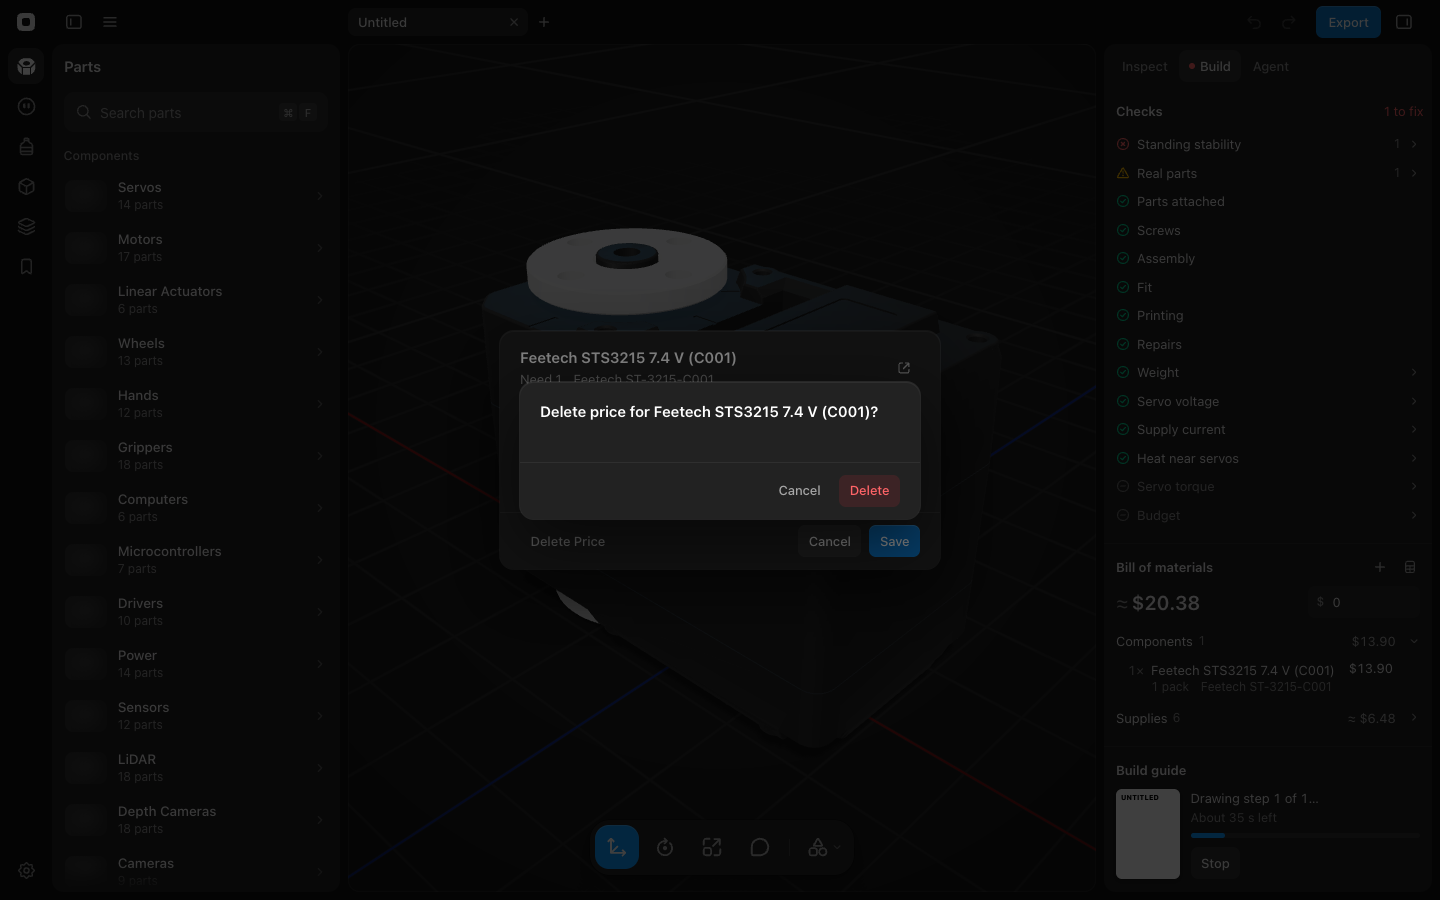
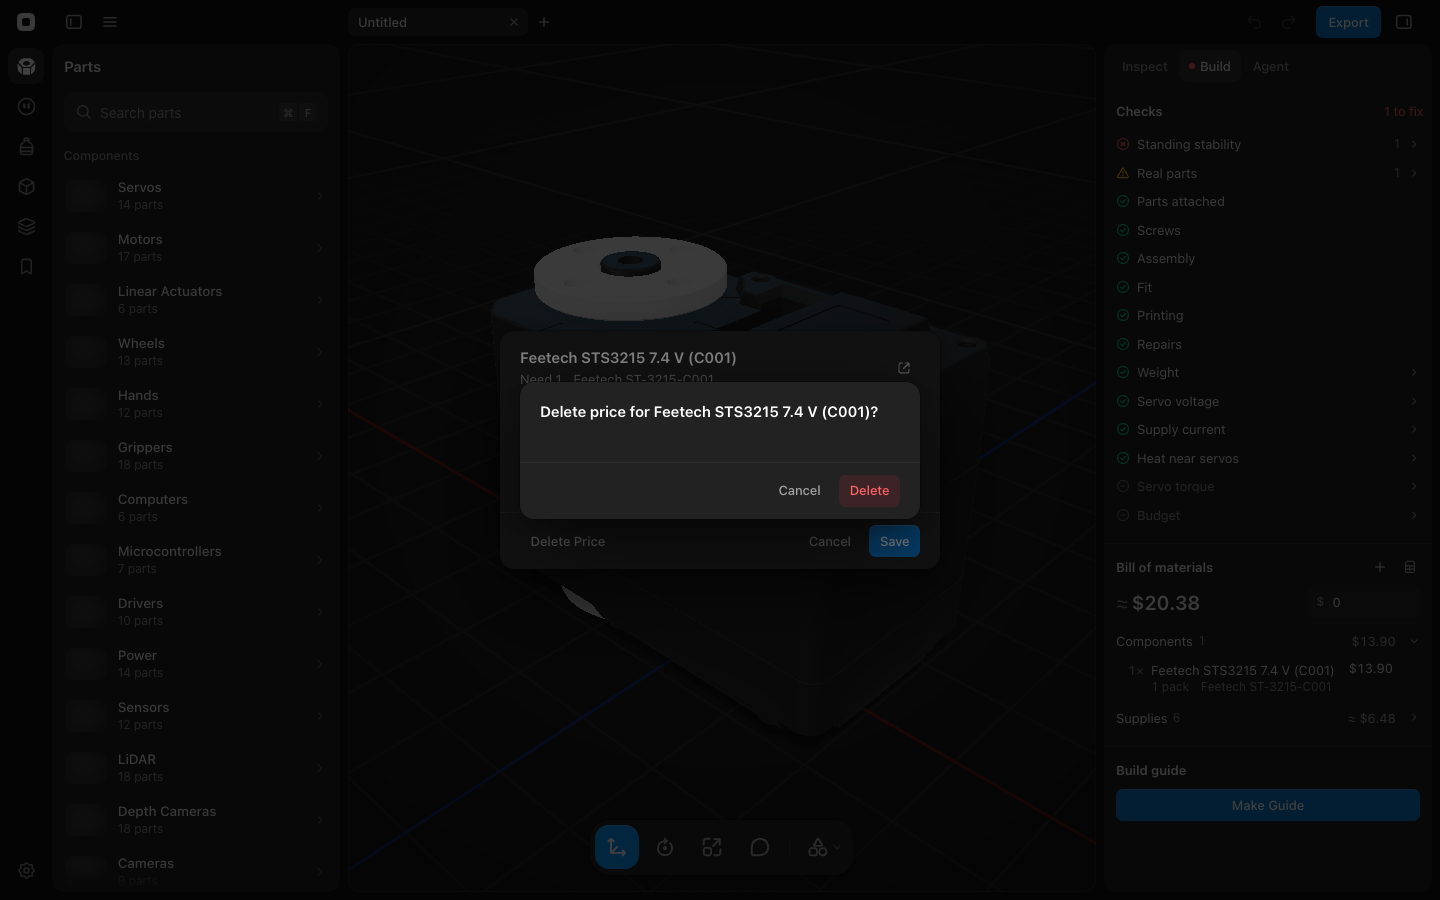
Give every sheet one footer, drawn by Modal: a ghost Cancel then its action
Sheets passed hand-built footers to Modal, and Cancel drifted: a filled
secondary button in the price sheet and Start Print, a ghost one in the
Import Robot, motion import and confirmation sheets. Modal now takes an
`action` (label, onClick, disabled, tone, autoFocus, form) and an
optional `footerStart`, and draws the footer itself: a ghost Cancel
with its Esc tooltip, then the action. ConfirmDialog, ImportRobotSheet,
RetargetSheet, CheckSheet and StartPrintSheet use it, the design-system
guide describes the new props, and the price help article's Delete
price screenshot is recaptured with the ghost Cancel.

diff --git a/src/design-system/Modal.tsx b/src/design-system/Modal.tsx
@@ -1,7 +1,17 @@
 import React, { useEffect } from 'react';
 import { CloseIcon } from './glyphs';
 import { createPortal } from 'react-dom';
+import { Button } from './Button';
 import { IconButton } from './IconButton';
+
+export interface ModalAction {
+  label: string;
+  onClick?: () => void;
+  disabled?: boolean;
+  tone?: 'primary' | 'danger';
+  autoFocus?: boolean;
+  form?: string;
+}
 
 export interface ModalProps {
   isOpen: boolean;
@@ -10,7 +20,8 @@ export interface ModalProps {
   subtitle?: React.ReactNode;
   icon?: React.ReactNode;
   children: React.ReactNode;
-  footer?: React.ReactNode;
+  action?: ModalAction;
+  footerStart?: React.ReactNode;
   headerActions?: React.ReactNode;
   maxWidth?: string;
 }
@@ -22,7 +33,8 @@ export const Modal: React.FC<ModalProps> = ({
   subtitle,
   icon,
   children,
-  footer,
+  action,
+  footerStart,
   headerActions,
   maxWidth = 'max-w-2xl',
 }) => {
@@ -68,7 +80,7 @@ export const Modal: React.FC<ModalProps> = ({
           </div>
           <div className="flex items-center gap-[4px] shrink-0">
             {headerActions}
-            {!footer && (
+            {!action && (
               <IconButton
                 icon={<CloseIcon className="w-4 h-4" />}
                 title="Close"
@@ -82,9 +94,22 @@ export const Modal: React.FC<ModalProps> = ({
 
         <div className="px-[20px] pb-[20px] overflow-y-auto flex-1">{children}</div>
 
-        {footer && (
-          <div className="px-[20px] py-[12px] border-t border-white/[0.06] flex items-center justify-end gap-[8px] shrink-0">
-            {footer}
+        {action && (
+          <div className="px-[20px] py-[12px] border-t border-white/[0.06] flex items-center gap-[8px] shrink-0">
+            <div className="flex-1 min-w-0 flex items-center gap-[8px]">{footerStart}</div>
+            <Button variant="ghost" title="Cancel" shortcut="Esc" onClick={onClose}>
+              Cancel
+            </Button>
+            <Button
+              variant={action.tone ?? 'primary'}
+              type={action.form ? 'submit' : 'button'}
+              form={action.form}
+              disabled={action.disabled}
+              autoFocus={action.autoFocus}
+              onClick={action.onClick}
+            >
+              {action.label}
+            </Button>
           </div>
         )}
       </div>

diff --git a/src/components/build/CheckSheet.tsx b/src/components/build/CheckSheet.tsx
@@ -154,24 +154,18 @@ export const CheckSheet: React.FC<CheckSheetProps> = ({ line, onClose, onSave })
       subtitle={<MetaLine items={[`Need ${needed(line)}`, line.detail]} />}
       headerActions={<ListingLink line={line} />}
       maxWidth="max-w-[440px]"
-      footer={
+      action={{ label: 'Save', form: formId, disabled: !valid }}
+      footerStart={
         <>
           {line.record && (
             <Button
               variant="ghost"
-              size="sm"
               onClick={() => confirmAction({ title: `Delete price for ${line.name}?`, onConfirm: () => onSave(null) })}
             >
               Delete Price
             </Button>
           )}
-          <div className="flex-1 text-[12.5px] text-white/50 truncate">{linkError(form.url)}</div>
-          <Button variant="secondary" size="sm" onClick={onClose}>
-            Cancel
-          </Button>
-          <Button type="submit" form={formId} variant="primary" size="sm" disabled={!valid}>
-            Save
-          </Button>
+          <div className="flex-1 min-w-0 text-[12.5px] text-white/50 truncate">{linkError(form.url)}</div>
         </>
       }
     >

diff --git a/src/components/ImportRobotSheet.tsx b/src/components/ImportRobotSheet.tsx
@@ -62,24 +62,13 @@ export const ImportRobotSheet: React.FC<{
       title="Import Robot"
       icon={<FolderImportIcon className="w-4 h-4" />}
       maxWidth="max-w-[520px]"
-      footer={
-        <div className="flex items-center justify-between w-full">
-          {choice ? (
-            <span />
-          ) : (
-            <Button variant="secondary" size="sm" onClick={() => folderRef.current?.click()}>
-              Choose Folder
-            </Button>
-          )}
-          <div className="flex gap-[8px]">
-            <Button variant="ghost" size="sm" onClick={onClose}>
-              Cancel
-            </Button>
-            <Button variant="primary" size="sm" disabled={!ready} autoFocus={!!loaded} onClick={submit}>
-              Import
-            </Button>
-          </div>
-        </div>
+      action={{ label: 'Import', disabled: !ready, autoFocus: !!loaded, onClick: submit }}
+      footerStart={
+        !choice && (
+          <Button variant="secondary" onClick={() => folderRef.current?.click()}>
+            Choose Folder
+          </Button>
+        )
       }
     >
       {choice && (

diff --git a/src/components/print/StartPrintSheet.tsx b/src/components/print/StartPrintSheet.tsx
@@ -1,5 +1,5 @@
 import React from 'react';
-import { Button, MetaLine, Modal } from '../../design-system';
+import { MetaLine, Modal } from '../../design-system';
 import type { PrinterSetup } from '../../data/printers';
 import type { Plate } from '../../print/plan';
 import type { PrinterStatus, SlicedPlate } from '../../print/printBridge';
@@ -39,16 +39,7 @@ export const StartPrintSheet: React.FC<StartPrintSheetProps> = ({ plate, sliced,
       onClose={onClose}
       title={`Print plate ${plate.number} on ${printer.label}?`}
       maxWidth="max-w-[420px]"
-      footer={
-        <div className="flex justify-end gap-2">
-          <Button variant="secondary" onClick={onClose}>
-            Cancel
-          </Button>
-          <Button variant="primary" onClick={onStart} disabled={!!busy} autoFocus>
-            Start Print
-          </Button>
-        </div>
-      }
+      action={{ label: 'Start Print', disabled: !!busy, autoFocus: true, onClick: onStart }}
     >
       <div className="flex gap-4">
         {sliced?.thumbnail && (

diff --git a/src/components/RetargetSheet.tsx b/src/components/RetargetSheet.tsx
@@ -1,5 +1,5 @@
 import React, { useMemo, useState } from 'react';
-import { Button, FileImportIcon, Modal, Select, Switch } from '../design-system';
+import { FileImportIcon, Modal, Select, Switch } from '../design-system';
 import type { RobotAnimation } from '../types/robotics';
 import { isMovable, prettyJointName, type Rig } from '../utils/kinematics';
 import type { PointOf } from '../utils/animation';
@@ -113,16 +113,7 @@ export const RetargetSheet: React.FC<{
       subtitle={`${motion.duration.toFixed(1)} s`}
       icon={<FileImportIcon className="w-4 h-4" />}
       maxWidth="max-w-[560px]"
-      footer={
-        <div className="flex items-center justify-end gap-2 w-full">
-          <Button variant="ghost" size="sm" onClick={onClose}>
-            Cancel
-          </Button>
-          <Button variant="primary" size="sm" onClick={create}>
-            Import
-          </Button>
-        </div>
-      }
+      action={{ label: 'Import', onClick: create }}
     >
       <div className="space-y-4">
         <MappingGrid

diff --git a/src/design-system/ConfirmDialog.tsx b/src/design-system/ConfirmDialog.tsx
@@ -1,5 +1,4 @@
 import React from 'react';
-import { Button } from './Button';
 import { Modal } from './Modal';
 
 export interface ConfirmDialogProps {
@@ -24,16 +23,7 @@ export const ConfirmDialog: React.FC<ConfirmDialogProps> = ({
     onClose={onCancel}
     title={title}
     maxWidth="max-w-[400px]"
-    footer={
-      <>
-        <Button variant="ghost" size="sm" onClick={onCancel}>
-          Cancel
-        </Button>
-        <Button variant="danger" size="sm" autoFocus onClick={onConfirm}>
-          {confirmLabel}
-        </Button>
-      </>
-    }
+    action={{ label: confirmLabel, tone: 'danger', autoFocus: true, onClick: onConfirm }}
   >
     {children && <div className="text-[13px] leading-[19px] text-white/60">{children}</div>}
   </Modal>

diff --git a/docs/guide/design-system.md b/docs/guide/design-system.md
@@ -33,7 +33,7 @@ Use these primitives. Never hand-roll a styled `<button>` or input when one fits
 - `SceneTabs` (`src/components`): the scene tab strip (§5a)
 - `ExportMenu` (`src/components`): the title bar's Export button and its format menu.
   - `PopoverMenu` anchors to its parent (the trigger's `relative` wrapper) but renders in a portal with fixed positioning, so docked panels with `overflow-hidden` never clip it. It flips to the other side when its preferred side has no room, stays 8px inside the window, and follows the trigger on resize and scroll. While any open dialog doesn't hold its trigger (`behindModal`, shared with `Tooltip`; a confirm stacked over a `Modal` covers that Modal's controls too), clicks and Esc go to the dialog and the popover stays open, so a menu row can ask with `confirmAction` (as the Scenes menu's Delete does) and the list is still there after. That holds for any open popover, not only one whose row opened the dialog.
-- `Modal` (portal sheet; `headerActions` sit at the header's right). A sheet with a `footer` closes with the footer's Cancel, Esc or a backdrop click, and has no Close in its header: two controls for one job. Only a sheet without a footer (`CodeBlock`'s Expand) shows Close. `ConfirmDialog` (a small `Modal` with Cancel and a danger action, focused so Enter confirms), `Toast` (with action), `EmptyState`, `NoMatches` (the `EmptyState` every search shows when nothing matches, with an optional action such as Parts' Search All Parts), `Badge` (12px text on an 18px pill)
+- `Modal` (portal sheet; `headerActions` sit at the header's right). A sheet that does something takes an `action` (`label`, `onClick`, `disabled`, `tone: 'danger'`, `autoFocus` so Enter runs it, `form` to submit a form), and `Modal` draws its footer: a ghost Cancel (Esc) then the action, the same in every sheet. `footerStart` holds anything else at the footer's left (Import Robot's Choose Folder, a price's Delete Price). That sheet closes with Cancel, Esc or a backdrop click, and has no Close in its header: two controls for one job. Only a sheet without an action (`CodeBlock`'s Expand, Pair Phone) shows Close. `ConfirmDialog` (a small `Modal` with Cancel and a danger action, focused so Enter confirms), `Toast` (with action), `EmptyState`, `NoMatches` (the `EmptyState` every search shows when nothing matches, with an optional action such as Parts' Search All Parts), `Badge` (12px text on an 18px pill)
   - While any modal is open (`isModalOpen()`: an `aria-modal` element in the page), canvas shortcuts don't run and clicks don't dismiss what's under it (the comment card).
 - `CodeBlock`: code with syntax colours (`utils/highlight.ts`: OpenSCAD, JavaScript/replicad, Python, shell; Xcode dark palette), Copy and Expand on hover; Expand opens the code in a wide `Modal` with line numbers and Copy. `Markdown` renders fenced code with it.
 - `PreviewImage`: the thumbnail inside every `.preview` frame in the app's panels (Parts, Library, hardware types, Scenes, Robots, Objects, the part and model heroes). `src` undefined shimmers, `''` stays empty, a URL shows the image, and an image that fails to load leaves the frame empty (`onError` lets Robots try its next source). `zoom` scales the image 6% while its `group` is hovered, at the 150ms hover speed (§4). Print plate thumbnails and the landing's robot strip are a plain `<img>`: they draw only once the image exists. Thumbnail hooks (`usePartThumbnail`, `usePartsThumbnail`, `useScenePreview`) return `''` when there's nothing to draw, so the frame never shimmers forever.
